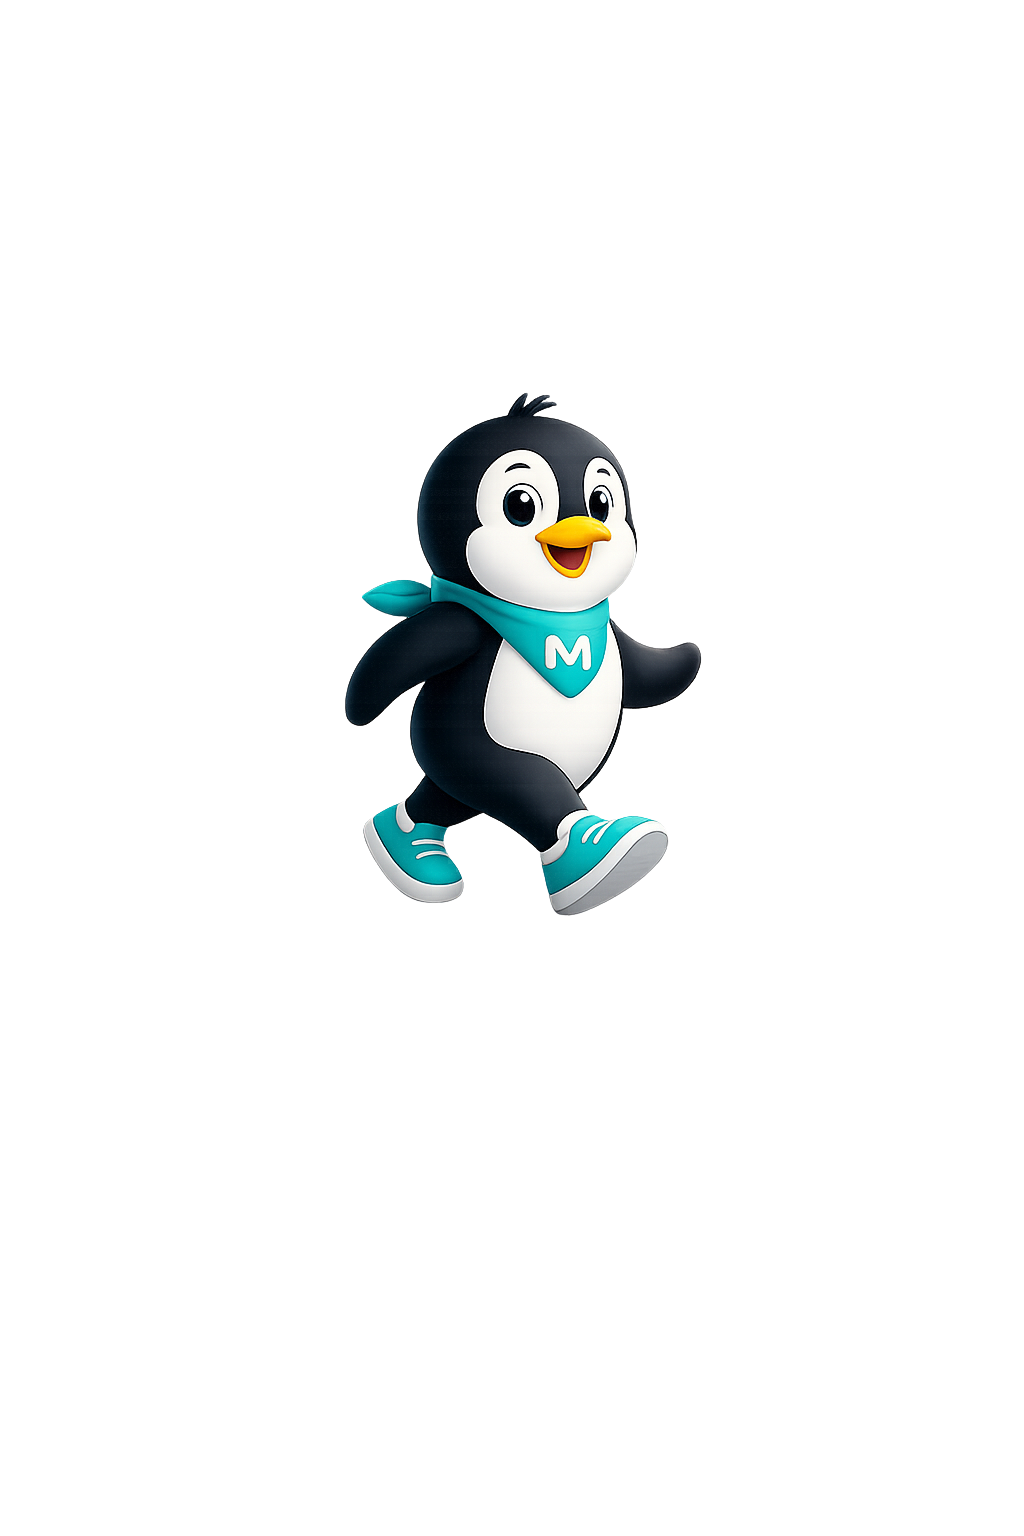
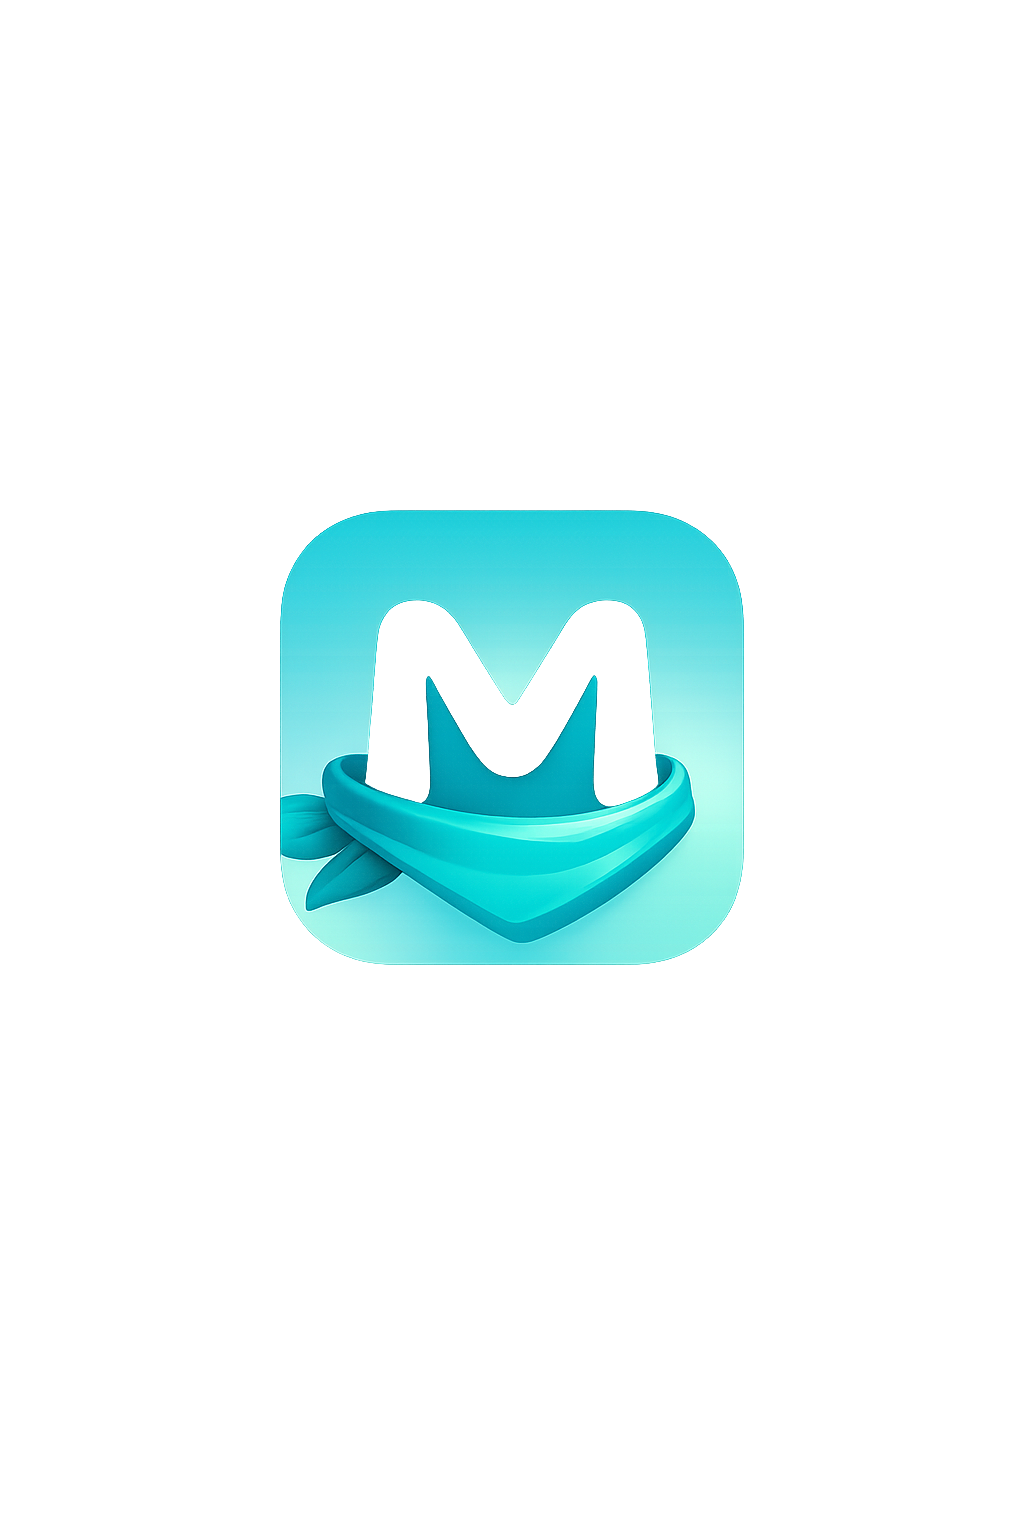
Nouvelle icone M turquoise et config build

Changed region(s): [[0.25, 0.25, 0.75, 0.6562]]

diff --git a/app.config.js b/app.config.js
@@ -4,7 +4,7 @@ export default {
     slug: "Movidia",
     version: "1.0.0",
     orientation: "portrait",
-    icon: "./assets/kroki-icone.png",
+    icon: "./assets/icon.png",
     userInterfaceStyle: "light",
     newArchEnabled: true,
     ios: {
@@ -12,8 +12,8 @@ export default {
     },
     android: {
       adaptiveIcon: {
-        foregroundImage: "./assets/kroki-icone.png",
-        backgroundColor: "#E8F5EC"
+        foregroundImage: "./assets/icon.png",
+        backgroundColor: "#7DDDD8"
       },
       edgeToEdgeEnabled: true,
       softwareKeyboardLayoutMode: "pan",